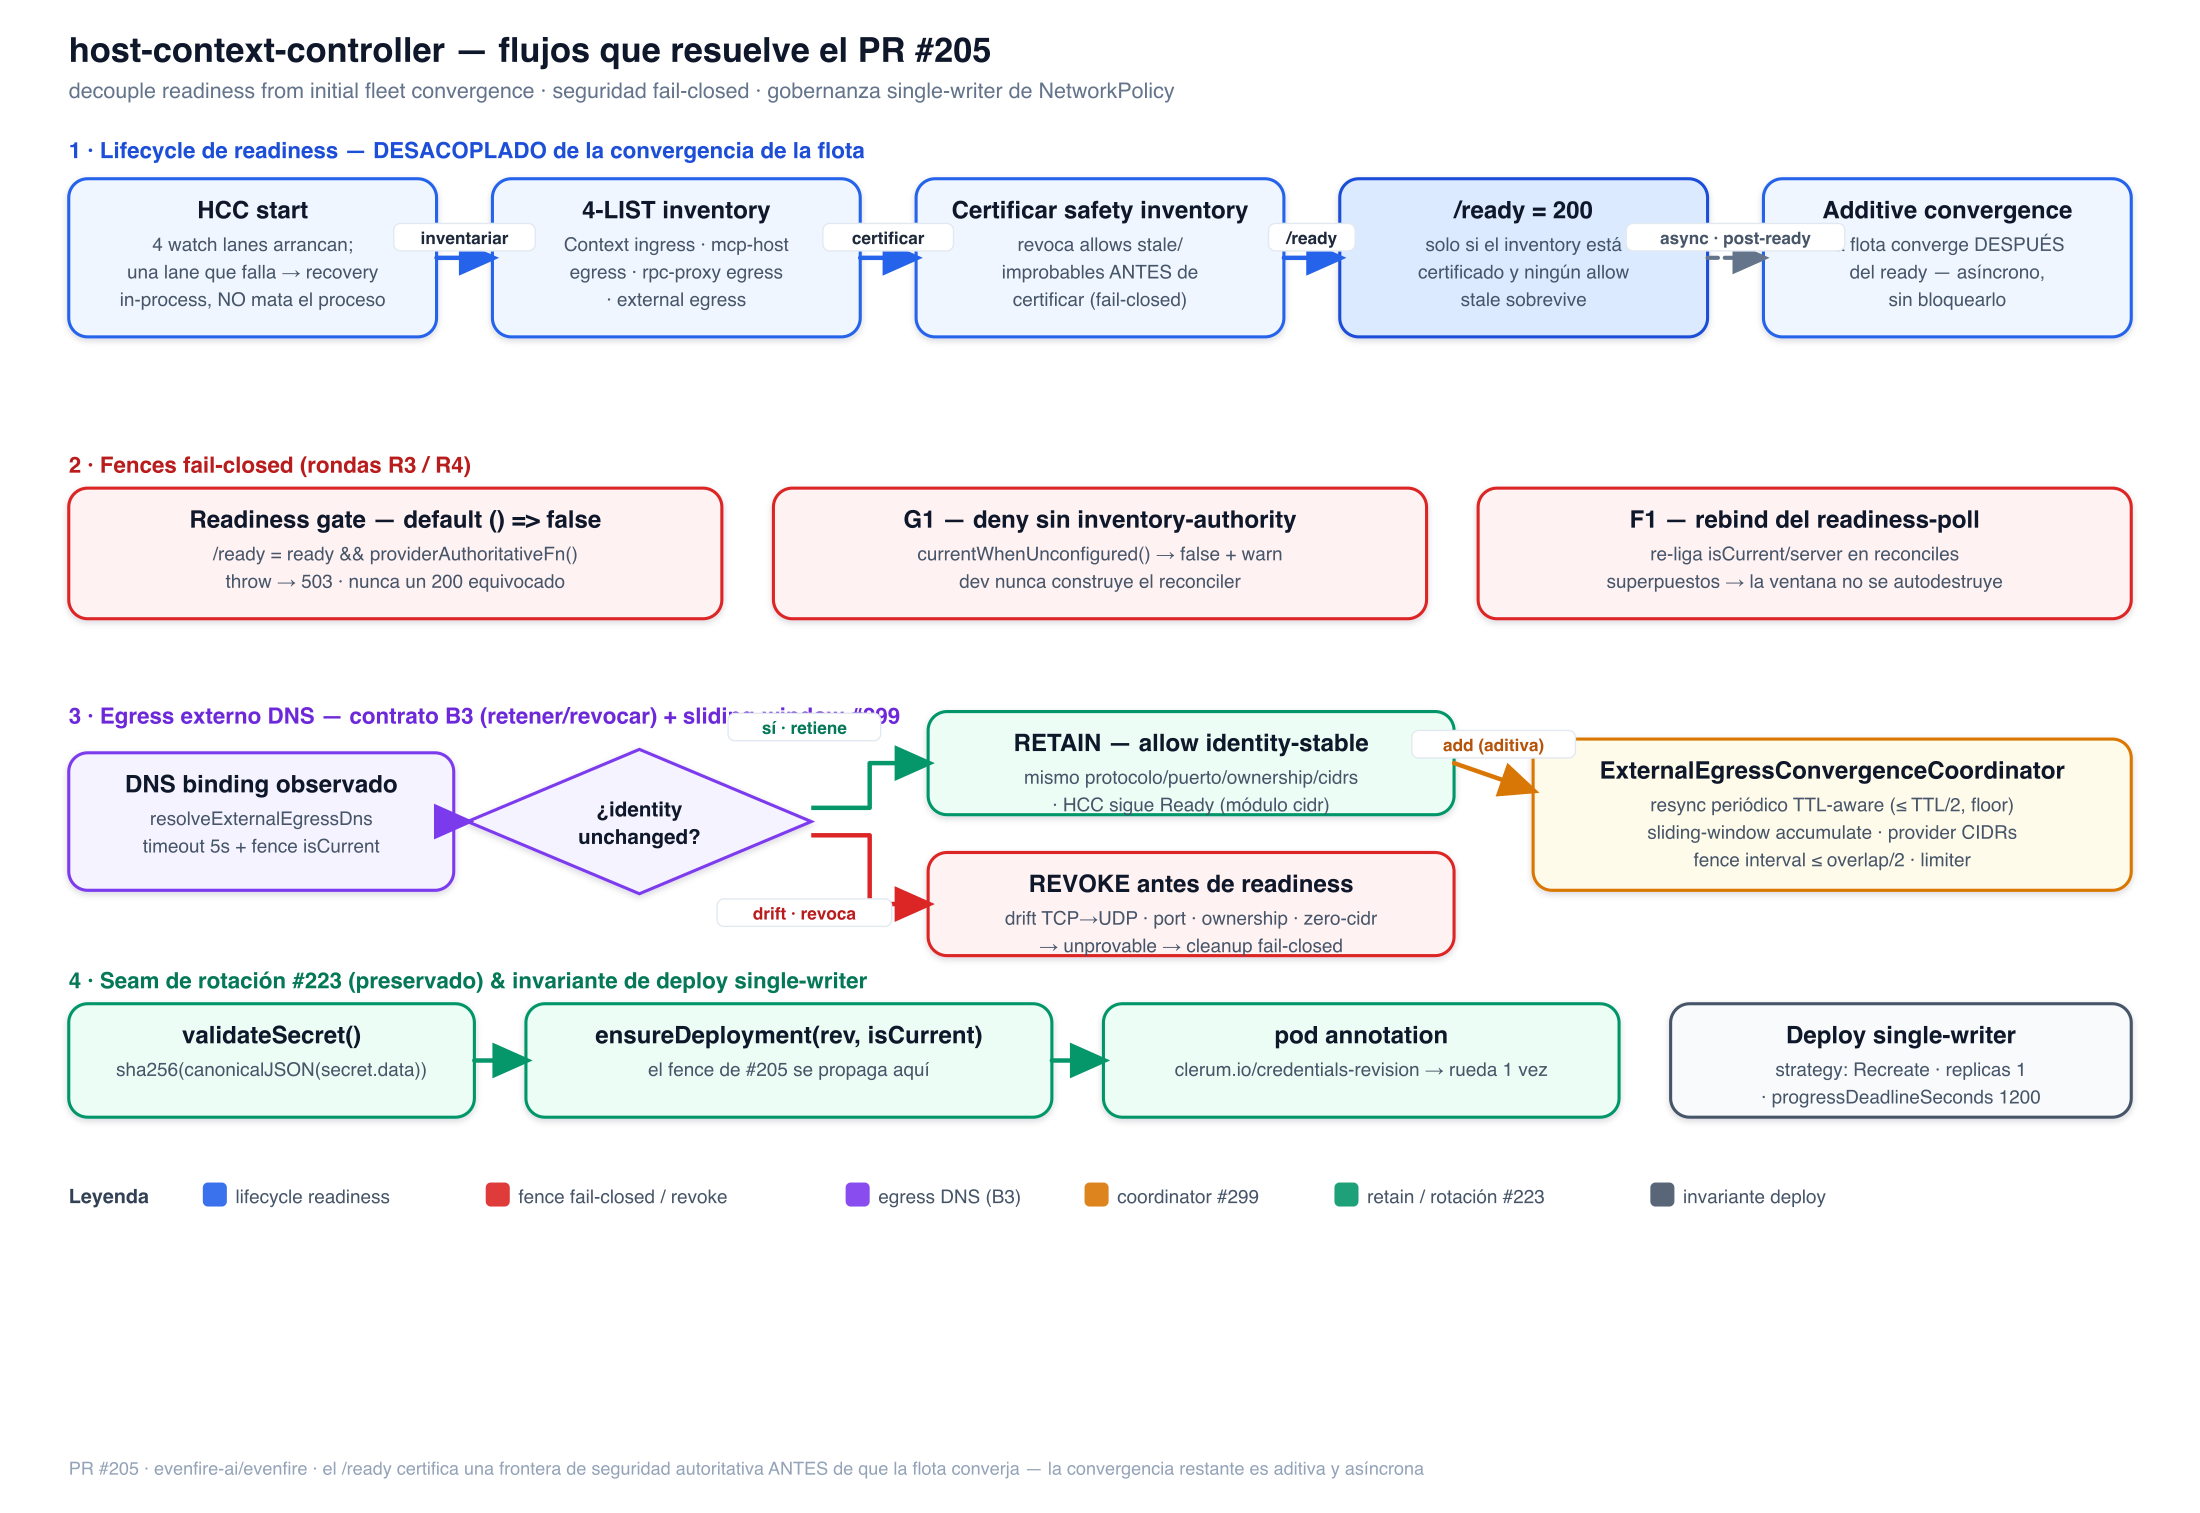
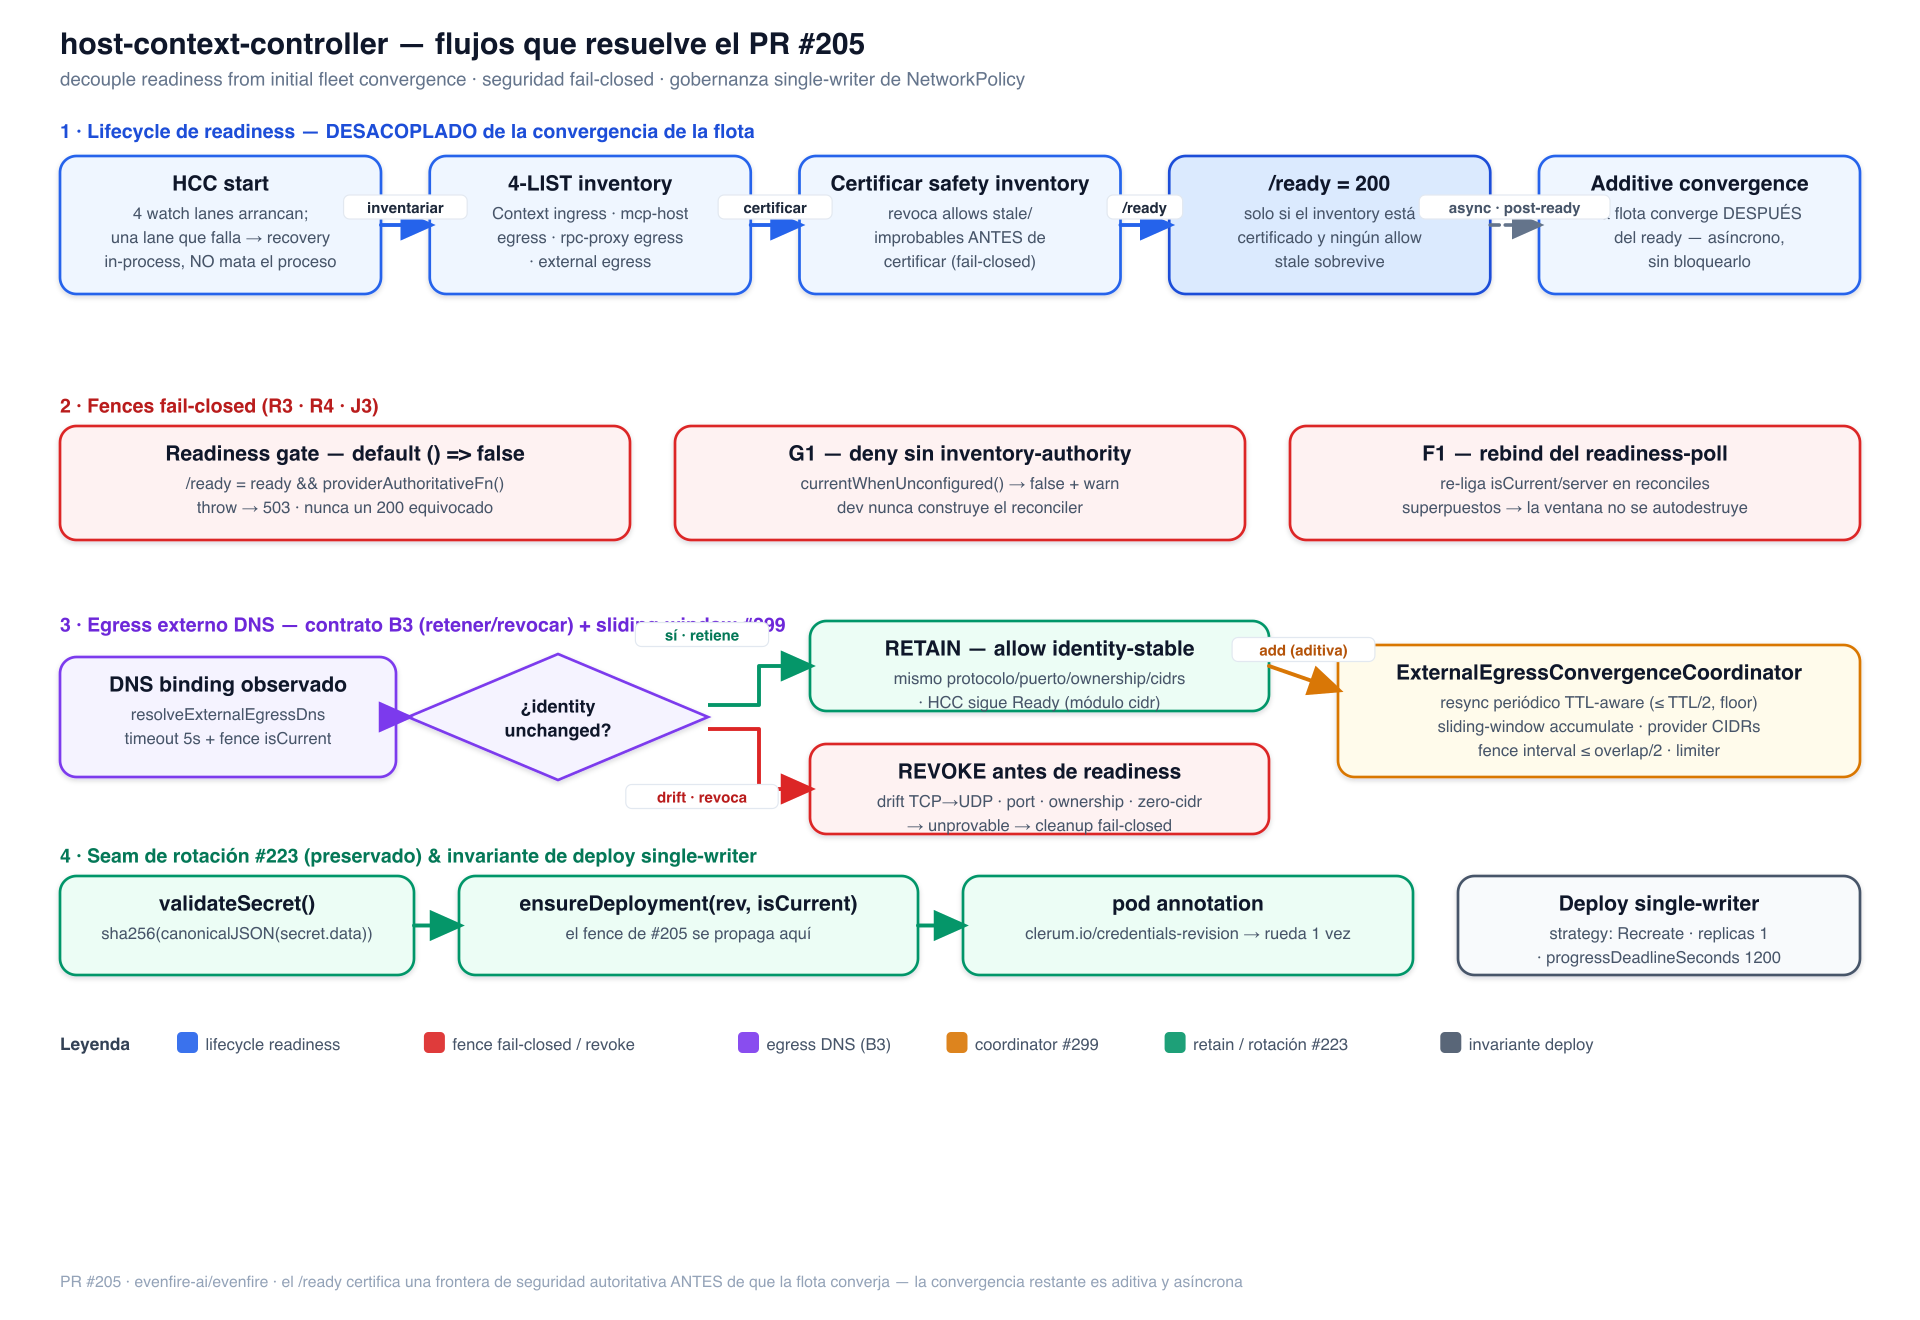
docs(hcc): record the required-isCurrent authority fence (J3) in the design note + diagram
Adds the authority fence row to the fail-closed fences table in
hcc-readiness-flows.md (isCurrent required on all three allow-granting
reconcilers, no ?? (() => true) default) and marks the flow diagram's fences
band as covering J3. Reflects the 2ae493e2 code change per jozer-rami's review.

diff --git a/docs/architecture/hcc-readiness-flows.md b/docs/architecture/hcc-readiness-flows.md
@@ -33,9 +33,12 @@ full convergence:
 | Readiness gate | `/ready = ready && providerAuthoritativeFn()`; constructor default `() => false`; a throwing gate → 503 | `server.ts`, `readinessGate.ts` |
 | G1 — unconfigured authority | `currentWhenUnconfigured()` returns `false` + warns once; prod always wires the source, dev never constructs the reconciler | `reconciler.ts` |
 | F1 — readiness-poll rebind | rebinds `isCurrent`/`server` on a superseding reconcile so the poll window does not self-destruct on a stale fence | `reconciler.ts` |
+| Authority fence — `isCurrent` | **required** (not an optional/defaulted arg) on all three allow-granting reconcilers — `bindingPolicyReconciler`, `reconcileContext` (L2 context-allow), `reconcileExternalEgress` (L3 external-egress ALLOW). No `?? (() => true)` fail-open default: a caller cannot compile without supplying the fence (TS2554/TS2345) | `networkPolicyReconciler.ts`, `bindingPolicyReconciler.ts` |
 
-The affirmative literal (`() => true`) is reachable only from the dev wiring; every
-production path resolves the real authority function.
+The affirmative literal (`() => true`) is reachable only from the dev/test wiring;
+every production path resolves the real authority function, and — because the fence
+is a **required argument** on every allow-granting reconciler rather than a defaulted
+option — no production caller can silently fall back to it.
 
 ## 3. DNS external-egress contract (B3) — retain / revoke decision table
 
